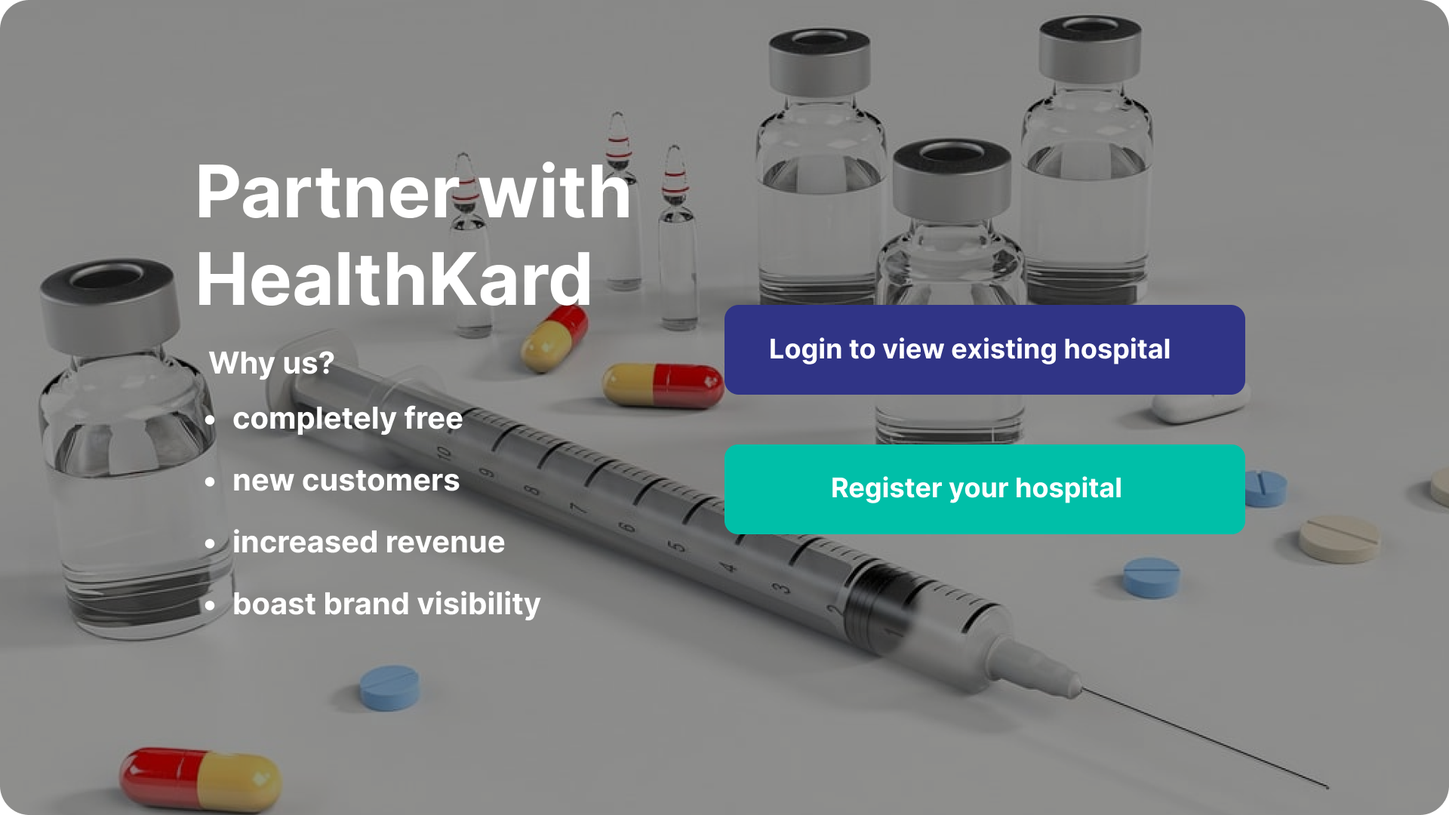
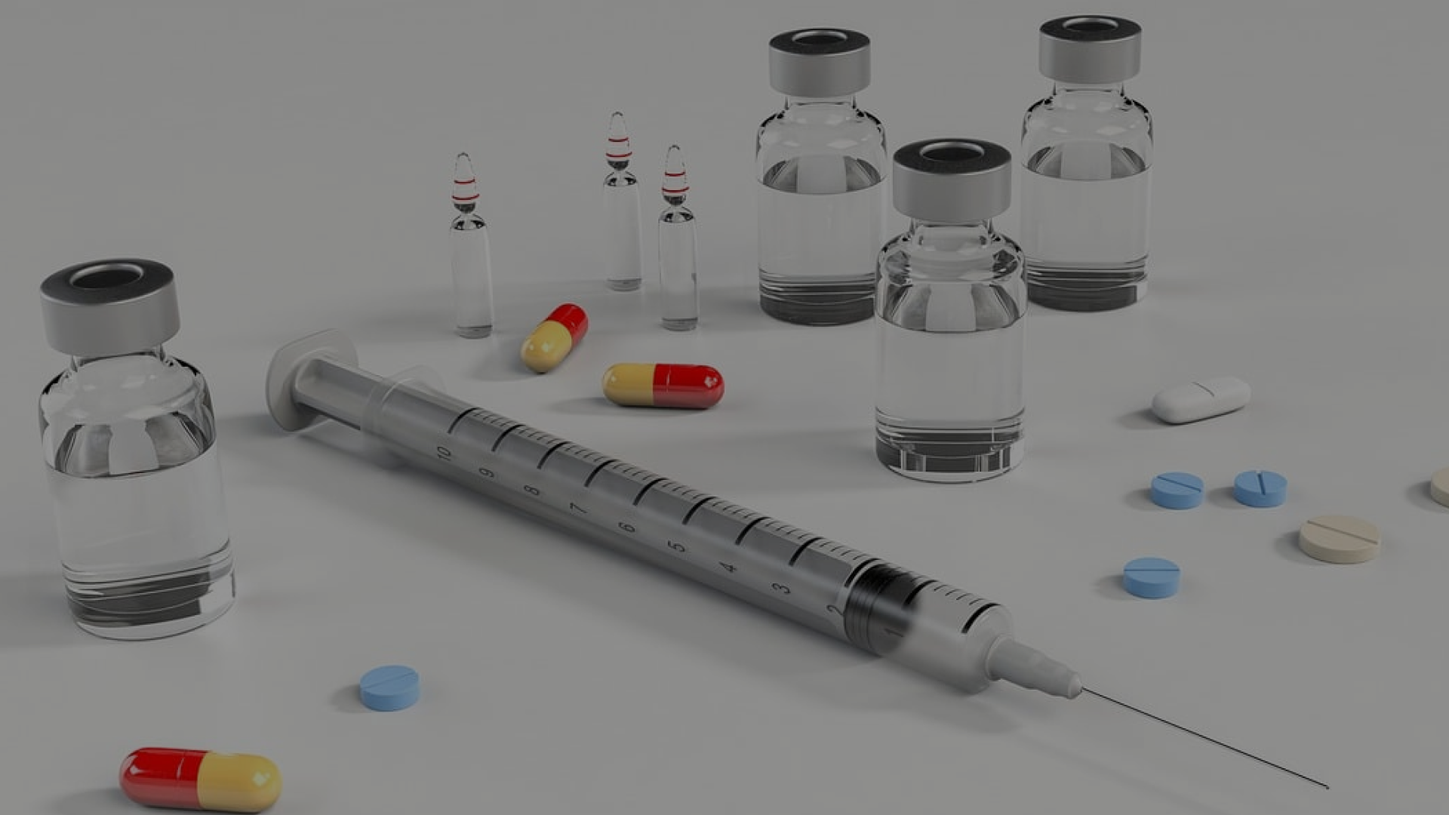
version 1.0

diff --git a/src/hospital/components/SignUp.js b/src/hospital/components/SignUp.js
@@ -1,7 +1,7 @@
 import React, { useState } from 'react'
 import { FcGoogle } from "react-icons/fc";
 import { RxCross2 } from "react-icons/rx";
-import { useNavigate } from 'react-router-dom';
+import { Link, useNavigate } from 'react-router-dom';
 
 
 function SignUp() {
@@ -16,19 +16,21 @@ function SignUp() {
         
     }
   return (
-    <div div className='relative h-[100vh] w-full flex justify-center items-center'>
-        <div className='shadow-md flex flex-col gap-6 w-2/3 lg:w-1/3 p-6 border rounded-md'>
+    <div div className='bg-[rgba(0,0,0,0.5)] relative h-[100vh] w-full flex justify-center items-center'>
+        <div className=' bg-white shadow-md flex flex-col gap-6 w-2/3 lg:w-1/3 p-6 border rounded-md'>
             <div className='text-xl font-bold flex justify-between'>
                 <div className=''>Sign Up</div>
-                <RxCross2 className='hover:bg-gray-200 hover:cursor-pointer rounded-full p-1 text-3xl' />
+                <Link to='../'>
+                    <RxCross2 className='hover:bg-gray-200 hover:cursor-pointer rounded-full p-1 text-3xl' />
+                </Link>
             </div>
             {!isOtpSent&&<div className='w-full flex flex-col gap-6'>
                 <div className="relative w-full min-w-[200px] h-10">
-                    <input className="border- peer w-full h-full bg-transparent text-green-gray-700 font-sans font-normal outline outline-0 focus:outline-0 disabled:bg-green-gray-50 disabled:border-0 transition-all placeholder-shown:border placeholder-shown:border-green-gray-200 placeholder-shown:border-t-green-gray-200  focus:border-2 border-t-transparent focus:border-t-transparent text-sm px-3 py-2.5 rounded-[7px]  focus:border-gray-900" placeholder=" " />
-                    <label className="flex w-full h-full select-none pointer-events-none absolute left-0 font-normal !overflow-visible truncate peer-placeholder-shown:text-green-gray-500 leading-tight peer-focus:leading-tight peer-disabled:text-transparent peer-disabled:peer-placeholder-shown:text-green-gray-500 transition-all -top-1.5 peer-placeholder-shown:text-sm text-[11px] peer-focus:text-[11px] before:content[' '] before:block before:box-border before:w-2.5 before:h-1.5 before:mt-[6.5px] before:mr-1 peer-placeholder-shown:before:border-transparent before:rounded-tl-md before:border-t peer-focus:before:border-t-2 before:border-l peer-focus:before:border-l-2 before:pointer-events-none before:transition-all peer-disabled:before:border-transparent after:content[' '] after:block after:flex-grow after:box-border after:w-2.5 after:h-1.5 after:mt-[6.5px] after:ml-1 peer-placeholder-shown:after:border-transparent after:rounded-tr-md after:border-t peer-focus:after:border-t-2 after:border-r peer-focus:after:border-r-2 after:pointer-events-none after:transition-all peer-disabled:after:border-transparent peer-placeholder-shown:leading-[3.75] text-gray-500 peer-focus:text-gray-900 before:border-green-gray-200 peer-focus:before:!border-gray-900 after:border-green-gray-200 peer-focus:after:!border-gray-900">Name of Hospital</label>
+                    <input autoFocus className="border- peer w-full h-full bg-transparent text-green-gray-700 font-sans font-normal outline outline-0 focus:outline-0 disabled:bg-green-gray-50 disabled:border-0 transition-all placeholder-shown:border placeholder-shown:border-green-gray-200 placeholder-shown:border-t-green-gray-200  focus:border-2 border-t-transparent focus:border-t-transparent text-sm px-3 py-2.5 rounded-[7px]  focus:border-gray-900" placeholder=" " />
+                    <label  className="flex w-full h-full select-none pointer-events-none absolute left-0 font-normal !overflow-visible truncate peer-placeholder-shown:text-green-gray-500 leading-tight peer-focus:leading-tight peer-disabled:text-transparent peer-disabled:peer-placeholder-shown:text-green-gray-500 transition-all -top-1.5 peer-placeholder-shown:text-sm text-[11px] peer-focus:text-[11px] before:content[' '] before:block before:box-border before:w-2.5 before:h-1.5 before:mt-[6.5px] before:mr-1 peer-placeholder-shown:before:border-transparent before:rounded-tl-md before:border-t peer-focus:before:border-t-2 before:border-l peer-focus:before:border-l-2 before:pointer-events-none before:transition-all peer-disabled:before:border-transparent after:content[' '] after:block after:flex-grow after:box-border after:w-2.5 after:h-1.5 after:mt-[6.5px] after:ml-1 peer-placeholder-shown:after:border-transparent after:rounded-tr-md after:border-t peer-focus:after:border-t-2 after:border-r peer-focus:after:border-r-2 after:pointer-events-none after:transition-all peer-disabled:after:border-transparent peer-placeholder-shown:leading-[3.75] text-gray-500 peer-focus:text-gray-900 before:border-green-gray-200 peer-focus:before:!border-gray-900 after:border-green-gray-200 peer-focus:after:!border-gray-900">Name of Hospital</label>
                 </div>
                 <div className="relative w-full min-w-[200px] h-10">
-                    <input className="border- peer w-full h-full bg-transparent text-green-gray-700 font-sans font-normal outline outline-0 focus:outline-0 disabled:bg-green-gray-50 disabled:border-0 transition-all placeholder-shown:border placeholder-shown:border-green-gray-200 placeholder-shown:border-t-green-gray-200  focus:border-2 border-t-transparent focus:border-t-transparent text-sm px-3 py-2.5 rounded-[7px]  focus:border-gray-900" placeholder=" " />
+                    <input  className="border- peer w-full h-full bg-transparent text-green-gray-700 font-sans font-normal outline outline-0 focus:outline-0 disabled:bg-green-gray-50 disabled:border-0 transition-all placeholder-shown:border placeholder-shown:border-green-gray-200 placeholder-shown:border-t-green-gray-200  focus:border-2 border-t-transparent focus:border-t-transparent text-sm px-3 py-2.5 rounded-[7px]  focus:border-gray-900" placeholder=" " />
                     <label className="flex w-full h-full select-none pointer-events-none absolute left-0 font-normal !overflow-visible truncate peer-placeholder-shown:text-green-gray-500 leading-tight peer-focus:leading-tight peer-disabled:text-transparent peer-disabled:peer-placeholder-shown:text-green-gray-500 transition-all -top-1.5 peer-placeholder-shown:text-sm text-[11px] peer-focus:text-[11px] before:content[' '] before:block before:box-border before:w-2.5 before:h-1.5 before:mt-[6.5px] before:mr-1 peer-placeholder-shown:before:border-transparent before:rounded-tl-md before:border-t peer-focus:before:border-t-2 before:border-l peer-focus:before:border-l-2 before:pointer-events-none before:transition-all peer-disabled:before:border-transparent after:content[' '] after:block after:flex-grow after:box-border after:w-2.5 after:h-1.5 after:mt-[6.5px] after:ml-1 peer-placeholder-shown:after:border-transparent after:rounded-tr-md after:border-t peer-focus:after:border-t-2 after:border-r peer-focus:after:border-r-2 after:pointer-events-none after:transition-all peer-disabled:after:border-transparent peer-placeholder-shown:leading-[3.75] text-gray-500 peer-focus:text-gray-900 before:border-green-gray-200 peer-focus:before:!border-gray-900 after:border-green-gray-200 peer-focus:after:!border-gray-900">Email</label>
                 </div>
                 <div class="flex items-center mb-4">
@@ -43,9 +45,8 @@ function SignUp() {
                     <input type='text' maxLength={1} className='focus:border-0 border-green-800 border rounded-md w-8 h-8 text-center'/>
                     <input type='text' maxLength={1} className='focus:border-0 border-green-800 border rounded-md w-8 h-8 text-center'/>
                     <input type='text' maxLength={1} className='focus:border-0 border-green-800 border rounded-md w-8 h-8 text-center'/>
-                    <input type='text' maxLength={1} className='focus:border-0 border-green-800 border rounded-md w-8 h-8 text-center'/>
-                    <input type='text' maxLength={1} className='focus:border-0 border-green-800 border rounded-md w-8 h-8 text-center'/>
                 </div>
+                <div className='text-sm px-2'>Enter OTP received to sh*****@gmail.com</div>
             </div>}
             <div onClick={sendOTP}  className='hover:cursor-pointer green text-white text-center rounded-md p-2'>{!isOtpSent?<div>Send OTP</div>:<div>Sign Up</div>}</div>
             <div className='flex w-full items-center justify-center gap-2'>

diff --git a/src/hospital/components/Login.js b/src/hospital/components/Login.js
@@ -1,6 +1,7 @@
 import React, { useState } from 'react'
 import { FcGoogle } from "react-icons/fc";
 import { RxCross2 } from "react-icons/rx";
+import { Link } from 'react-router-dom';
 
 
 function Login() {
@@ -9,14 +10,16 @@ function Login() {
         setIsOtpSent(true);
     }
   return (
-    <div div className='relative h-[100vh] w-full flex justify-center items-center'>
-        <div className='shadow-md flex flex-col gap-6 w-2/3 lg:w-1/3 p-6 border rounded-md'>
+    <div div className='bg-[rgba(0,0,0,0.5)] relative h-[100vh] w-full flex justify-center items-center'>
+        <div className='bg-white  shadow-md flex flex-col gap-6 w-2/3 lg:w-1/3 p-6 border rounded-md'>
             <div className='text-xl font-bold flex justify-between'>
                 <div className=''>Login</div>
-                <RxCross2 className='hover:bg-gray-200 hover:cursor-pointer rounded-full p-1 text-3xl' />
+                <Link to='../'>
+                    <RxCross2 className='hover:bg-gray-200 hover:cursor-pointer rounded-full p-1 text-3xl' />
+                </Link>
             </div>
             {!isOtpSent&&<div className="relative w-full min-w-[200px] h-10">
-                <input className="border- peer w-full h-full bg-transparent text-green-gray-700 font-sans font-normal outline outline-0 focus:outline-0 disabled:bg-green-gray-50 disabled:border-0 transition-all placeholder-shown:border placeholder-shown:border-green-gray-200 placeholder-shown:border-t-green-gray-200  focus:border-2 border-t-transparent focus:border-t-transparent text-sm px-3 py-2.5 rounded-[7px]  focus:border-gray-900" placeholder=" " />
+                <input autoFocus className="border- peer w-full h-full bg-transparent text-green-gray-700 font-sans font-normal outline outline-0 focus:outline-0 disabled:bg-green-gray-50 disabled:border-0 transition-all placeholder-shown:border placeholder-shown:border-green-gray-200 placeholder-shown:border-t-green-gray-200  focus:border-2 border-t-transparent focus:border-t-transparent text-sm px-3 py-2.5 rounded-[7px]  focus:border-gray-900" placeholder=" " />
                 <label className="flex w-full h-full select-none pointer-events-none absolute left-0 font-normal !overflow-visible truncate peer-placeholder-shown:text-green-gray-500 leading-tight peer-focus:leading-tight peer-disabled:text-transparent peer-disabled:peer-placeholder-shown:text-green-gray-500 transition-all -top-1.5 peer-placeholder-shown:text-sm text-[11px] peer-focus:text-[11px] before:content[' '] before:block before:box-border before:w-2.5 before:h-1.5 before:mt-[6.5px] before:mr-1 peer-placeholder-shown:before:border-transparent before:rounded-tl-md before:border-t peer-focus:before:border-t-2 before:border-l peer-focus:before:border-l-2 before:pointer-events-none before:transition-all peer-disabled:before:border-transparent after:content[' '] after:block after:flex-grow after:box-border after:w-2.5 after:h-1.5 after:mt-[6.5px] after:ml-1 peer-placeholder-shown:after:border-transparent after:rounded-tr-md after:border-t peer-focus:after:border-t-2 after:border-r peer-focus:after:border-r-2 after:pointer-events-none after:transition-all peer-disabled:after:border-transparent peer-placeholder-shown:leading-[3.75] text-gray-500 peer-focus:text-gray-900 before:border-green-gray-200 peer-focus:before:!border-gray-900 after:border-green-gray-200 peer-focus:after:!border-gray-900">Email</label>
             </div>}
             {isOtpSent && <div className='flex flex-col'>
@@ -26,9 +29,8 @@ function Login() {
                     <input type='text' maxLength={1} className='focus:border-0 border-green-800 border rounded-md w-8 h-8 text-center'/>
                     <input type='text' maxLength={1} className='focus:border-0 border-green-800 border rounded-md w-8 h-8 text-center'/>
                     <input type='text' maxLength={1} className='focus:border-0 border-green-800 border rounded-md w-8 h-8 text-center'/>
-                    <input type='text' maxLength={1} className='focus:border-0 border-green-800 border rounded-md w-8 h-8 text-center'/>
-                    <input type='text' maxLength={1} className='focus:border-0 border-green-800 border rounded-md w-8 h-8 text-center'/>
                 </div>
+                <div className='text-sm px-2'>Enter OTP received to sh*****@gmail.com</div>
             </div>}
             <div onClick={sendOTP}  className='hover:cursor-pointer green text-white text-center rounded-md p-2'>{!isOtpSent?<div>Send OTP</div>:<div>Sign Up</div>}</div>
             <div className='flex w-full items-center justify-center gap-2'>

diff --git a/src/hospital/HospitalCredentails.js b/src/hospital/HospitalCredentails.js
@@ -1,13 +1,35 @@
 import React from 'react'
-// import { Outlet } from 'react-router-dom'
+import { FaRegCircleDot } from "react-icons/fa6";
+
+import { Link, Outlet } from 'react-router-dom'
 import mobile from '../assets/mobile.png'
 import './style.css'
 function HospitalCredentails() {
   return (
-    <div className='flex flex-col '>
-      <div className='banner'></div>
-      <div className='flex flex-col gap-8 p-8'>
-        <div className='font-bold text-center text-2xl'>Steps to join our community</div>
+    <div className='flex flex-col relative'>
+      <div className='fixed top-0 left-0 w-full'>
+          <Outlet/>
+      </div>
+      <div className='banner lg:h-[100vh] flex lg:flex-row flex-col p-4 justify-center items-center'>
+        <div className='flex flex-col text-white w-1/2 lg:w-1/3 p-3   gap-6'>
+          <div className='text-2xl lg:text-4xl font-bold tracking-wider'>Partner with HealthKard</div>
+          <div className='flex flex-col gap-2'>
+            <div className='text-2xl font-semibold'>Why us?</div>
+            <div className='flex flex-col gap-4 lg:text-xl'>
+              <div className='flex items-center gap-6 '><FaRegCircleDot className=''/>completely free</div>
+              <div className='flex items-center gap-6 '><FaRegCircleDot className=''/>new customers</div>
+              <div className='flex items-center gap-6 '><FaRegCircleDot className=''/>increased revenue</div>
+              <div className='flex items-center gap-6 '><FaRegCircleDot className=''/>boast brand visibility</div>
+            </div>
+          </div>
+        </div>
+        <div className='flex flex-col w-1/2 lg:w-1/3  gap-8'>
+          <Link to='login' className='blue text-white font-bold  py-3 rounded-md text-center'>Login to view existing hospital</Link>
+          <Link to='signup' className='green text-white font-bold  py-3 rounded-md text-center'>Register your hospital</Link>
+        </div>
+      </div>
+      <div className='flex flex-col gap-10 p-8 lg:h-[100vh] justify-center'>
+        <div className='font-bold text-center text-2xl md:text-4xl'>Steps to join our community</div>
         <div className='flex justify-around'>
           <div className='shadow-md border rounded-xl py-8 px-2 w-1/5 flex flex-col gap-6 items-center justify-center'>
             <div className='blue text-white w-[30px] h-[30px] flex justify-center items-center rounded-full font-bold'>1</div>
@@ -26,9 +48,13 @@ function HospitalCredentails() {
           </div>
         </div>
       </div>
-      <div className='flex'>
-        <div className=''>
-          <img src={mobile}/>
+      <div className='flex items-center justify-center lg:h-[100vh]'>
+        <div className=' w-1/2'>
+          <img alt='mobile' src={mobile}/>
+        </div>
+        <div className='flex flex-col w-1/3 gap-8'>
+          <div className='text-blue text-xl lg:text-3xl font-bold text-center'>Manage your hospital from your fingertips</div>
+          <div className='text-green text-md lg:text-2xl text-center'>Get our partner app</div>
         </div>
       </div>
     </div>

diff --git a/src/hospital/components_register/DoctorDeatailsForm.js b/src/hospital/components_register/DoctorDeatailsForm.js
@@ -14,7 +14,7 @@ function DoctorDeatailsForm() {
           <div className='w-full p-2 flex flex-col gap-8'>
             <div className="w-full">
               <div className="relative w-full min-w-[200px] h-10">
-                <input onChange={(e)=>setDoctorDetails({...doctorDetails,name:e.target.value})} className="border- peer w-full h-full bg-transparent text-blue-gray-700 font-sans font-normal outline outline-0 focus:outline-0 disabled:bg-blue-gray-50 disabled:border-0 transition-all placeholder-shown:border placeholder-shown:border-blue-gray-200 placeholder-shown:border-t-blue-gray-200  focus:border-2 border-t-transparent focus:border-t-transparent text-sm px-3 py-2.5 rounded-[7px]  focus:border-gray-900" placeholder=" " />
+                <input autoFocus onChange={(e)=>setDoctorDetails({...doctorDetails,name:e.target.value})} className="border- peer w-full h-full bg-transparent text-blue-gray-700 font-sans font-normal outline outline-0 focus:outline-0 disabled:bg-blue-gray-50 disabled:border-0 transition-all placeholder-shown:border placeholder-shown:border-blue-gray-200 placeholder-shown:border-t-blue-gray-200  focus:border-2 border-t-transparent focus:border-t-transparent text-sm px-3 py-2.5 rounded-[7px]  focus:border-gray-900" placeholder=" " />
                   <label className="flex w-full h-full select-none pointer-events-none absolute left-0 font-normal !overflow-visible truncate peer-placeholder-shown:text-blue-gray-500 leading-tight peer-focus:leading-tight peer-disabled:text-transparent peer-disabled:peer-placeholder-shown:text-blue-gray-500 transition-all -top-1.5 peer-placeholder-shown:text-sm text-[11px] peer-focus:text-[11px] before:content[' '] before:block before:box-border before:w-2.5 before:h-1.5 before:mt-[6.5px] before:mr-1 peer-placeholder-shown:before:border-transparent before:rounded-tl-md before:border-t peer-focus:before:border-t-2 before:border-l peer-focus:before:border-l-2 before:pointer-events-none before:transition-all peer-disabled:before:border-transparent after:content[' '] after:block after:flex-grow after:box-border after:w-2.5 after:h-1.5 after:mt-[6.5px] after:ml-1 peer-placeholder-shown:after:border-transparent after:rounded-tr-md after:border-t peer-focus:after:border-t-2 after:border-r peer-focus:after:border-r-2 after:pointer-events-none after:transition-all peer-disabled:after:border-transparent peer-placeholder-shown:leading-[3.75] text-gray-500 peer-focus:text-gray-900 before:border-blue-gray-200 peer-focus:before:!border-gray-900 after:border-blue-gray-200 peer-focus:after:!border-gray-900">Doctor Full Name
                   </label>
               </div>

diff --git a/src/hospital/components_register/Form1.js b/src/hospital/components_register/Form1.js
@@ -7,7 +7,7 @@ function Form1() {
       <div className='w-full p-2 flex flex-col gap-8'>
         <div className="w-full">
           <div className="relative w-full min-w-[200px] h-10">
-            <input className="border- peer w-full h-full bg-transparent text-blue-gray-700 font-sans font-normal outline outline-0 focus:outline-0 disabled:bg-blue-gray-50 disabled:border-0 transition-all placeholder-shown:border placeholder-shown:border-blue-gray-200 placeholder-shown:border-t-blue-gray-200  focus:border-2 border-t-transparent focus:border-t-transparent text-sm px-3 py-2.5 rounded-[7px]  focus:border-gray-900" placeholder=" " />
+            <input autoFocus className="border- peer w-full h-full bg-transparent text-blue-gray-700 font-sans font-normal outline outline-0 focus:outline-0 disabled:bg-blue-gray-50 disabled:border-0 transition-all placeholder-shown:border placeholder-shown:border-blue-gray-200 placeholder-shown:border-t-blue-gray-200  focus:border-2 border-t-transparent focus:border-t-transparent text-sm px-3 py-2.5 rounded-[7px]  focus:border-gray-900" placeholder=" " />
               <label className="flex w-full h-full select-none pointer-events-none absolute left-0 font-normal !overflow-visible truncate peer-placeholder-shown:text-blue-gray-500 leading-tight peer-focus:leading-tight peer-disabled:text-transparent peer-disabled:peer-placeholder-shown:text-blue-gray-500 transition-all -top-1.5 peer-placeholder-shown:text-sm text-[11px] peer-focus:text-[11px] before:content[' '] before:block before:box-border before:w-2.5 before:h-1.5 before:mt-[6.5px] before:mr-1 peer-placeholder-shown:before:border-transparent before:rounded-tl-md before:border-t peer-focus:before:border-t-2 before:border-l peer-focus:before:border-l-2 before:pointer-events-none before:transition-all peer-disabled:before:border-transparent after:content[' '] after:block after:flex-grow after:box-border after:w-2.5 after:h-1.5 after:mt-[6.5px] after:ml-1 peer-placeholder-shown:after:border-transparent after:rounded-tr-md after:border-t peer-focus:after:border-t-2 after:border-r peer-focus:after:border-r-2 after:pointer-events-none after:transition-all peer-disabled:after:border-transparent peer-placeholder-shown:leading-[3.75] text-gray-500 peer-focus:text-gray-900 before:border-blue-gray-200 peer-focus:before:!border-gray-900 after:border-blue-gray-200 peer-focus:after:!border-gray-900">Hospital Legal Name
               </label>
           </div>

diff --git a/src/hospital/components/SideBar.js b/src/hospital/components/SideBar.js
@@ -6,20 +6,20 @@ import { NavLink } from 'react-router-dom';
 import './style.css'
 function SideBar() {
   return (
-    <div className='fixed md:relative bottom-0 left-0 w-full md:w-fit flex md:flex-col  md:h-full green md:p-2 p-1 text-3xl text-white gap-6 justify-around md:justify-between items-center'>
-        <div className='flex md:flex-col w-2/3 md:w-full md:h-1/2 justify-around md:justify-end md:gap-4'>
-          <NavLink to='profile' className=' p-2  rounded-md flex flex-col items-center w-1/2 md:w-full md:gap-1 hover:cursor-pointer'>
+    <div className='fixed lg:relative bottom-0 left-0 w-full lg:w-fit flex lg:flex-col  lg:h-full green lg:p-2 p-1 text-3xl text-white gap-6 justify-around lg:justify-between items-center'>
+        <div className='flex lg:flex-col w-2/3 lg:w-full lg:h-1/2 justify-around lg:justify-end lg:gap-4'>
+          <NavLink to='profile' className=' p-2  rounded-md flex flex-col items-center w-1/2 lg:w-full lg:gap-1 hover:cursor-pointer'>
               <CgProfile/>
-              <div className='text-xs md:text-sm font-thin'>Profile</div>
+              <div className='text-xs lg:text-sm font-thin'>Profile</div>
           </NavLink>
-          <NavLink to='dashboard' className=' p-2  rounded-md flex flex-col items-center w-1/2 md:w-full md:gap-1 hover:cursor-pointer'>
+          <NavLink to='dashboard' className=' p-2  rounded-md flex flex-col items-center w-1/2 lg:w-full lg:gap-1 hover:cursor-pointer'>
               <FaHome/>
-              <div className='text-xs md:text-sm font-thin'>Home</div>
+              <div className='text-xs lg:text-sm font-thin'>Home</div>
           </NavLink>
         </div>
-        <div className='flex flex-col items-center justify-center md:gap-1 hover:cursor-pointer  md:h-1/3'>
+        <div className='flex flex-col items-center justify-center lg:gap-1 hover:cursor-pointer  lg:h-1/3'>
             <CiLogout/>
-            <div className='text-xs md:text-sm font-thin'>Logout</div>
+            <div className='text-xs lg:text-sm font-thin'>Logout</div>
         </div>
     </div>
   )

diff --git a/src/hospital/components/Table.js b/src/hospital/components/Table.js
@@ -5,17 +5,17 @@ import profile from '../../assets/profile.png'
 function Table(props) {
   
   return (
-    <div className='md:w-3/5 w-full h-[70vh] md:h-[80vh] overflow-y-scroll noscroll md:p-2 '>
-      <div className='w-full md:text-[14px] text-md'>
+    <div className='lg:w-3/5 w-full h-[80vh] overflow-y-scroll noscroll lg:p-2 '>
+      <div className='w-full lg:text-[14px] text-md'>
         
         {props.data && props.data.map((row,index)=>{
           return(
             <div key={index} className={index%2===0?'tr h-[6vh] hover:bg-[#00BFA8] items-center hover:font-bold hover:text-white hover:scale-[102%] hover:shadow-xl  cursor-pointer flex rounded ':'h-[6vh] hover:bg-[#00BFA8] items-center hover:font-bold hover:text-white hover:scale-[102%] hover:shadow-xl  cursor-pointer flex rounded '}>
-              <div className='flex items-center justify-center h-[4vh] w-1/3  md:w-1/6'><img className='aspect-square h-full ' src={profile} alt=""/></div>
-              <div className='w-1/3 md:w-1/6 text-center items-center flex'>{row.id}</div>
-              <div className='w-1/3 md:w-1/6 text-center items-center flex'>{row.name}</div>
-              <div className='w-1/6 text-center items-center hidden md:flex justify-center'>{row.gender}</div>
-              <div className='w-1/6 text-center items-center hidden md:flex justify-center'>{row.age}</div>
+              <div className='flex items-center justify-center h-[4vh] w-1/3  lg:w-1/6'><img className='aspect-square h-full ' src={profile} alt=""/></div>
+              <div className='w-1/3 lg:w-1/6 text-center items-center flex'>{row.id}</div>
+              <div className='w-1/3 lg:w-1/6 text-center items-center flex'>{row.name}</div>
+              <div className='w-1/6 text-center items-center hidden lg:flex justify-center'>{row.gender}</div>
+              <div className='w-1/6 text-center items-center hidden lg:flex justify-center'>{row.age}</div>
               <div className='w-1/6 text-center items-center hidden md:flex'>{row.phNumber}</div>
             </div>
           )

diff --git a/src/hospital/components_dashboard/Dashboard.js b/src/hospital/components_dashboard/Dashboard.js
@@ -34,7 +34,7 @@ function Dashboard() {
   }
   return (
     <>
-        <div className='md:w-1/4 '>   
+        <div className='lg:w-1/4 '>   
             <label htmlFor="default-search" className="mb-2 text-sm font-medium text-gray-900 sr-only dark:text-white">Search</label>
                 <div className="relative">
                     <div className="absolute inset-y-0 start-0 flex items-center ps-3 pointer-events-none">
@@ -47,7 +47,7 @@ function Dashboard() {
         </div>
         <div className='flex w-full  h-full justify-between gap-2'>
             <Table data = {records} columns = {columns}/>
-            <div className='hidden md:flex flex-col w-2/5 gap-5  '>
+            <div className='hidden lg:flex flex-col w-2/5 gap-5  '>
                 <UserInfo/>
                 <Graph/>
             </div>

diff --git a/src/hospital/components/Navbar.js b/src/hospital/components/Navbar.js
@@ -3,11 +3,11 @@ import { CgProfile } from "react-icons/cg";
 function Navbar() {
   return (
     <div className='flex justify-between '>
-        <div className='flex items-center gap-2 font-bold text-sm md:text-2xl'>
+        <div className='flex items-center gap-2 font-bold text-sm lg:text-2xl'>
             <div className=''>Welcome, </div>
-            <div className='text-green text-sm md:text-4xl uppercase'>Hospital !</div>
+            <div className='text-green text-sm lg:text-4xl uppercase'>Hospital !</div>
         </div>
-        <div className='flex items-center gap-1 text-xs md:text-lg'>
+        <div className='flex items-center gap-1 text-xs lg:text-lg'>
             <div className=''>Health_ID</div>
             <CgProfile/>
         </div>

diff --git a/src/App.js b/src/App.js
@@ -17,7 +17,8 @@ function App() {
       <Routes>
         <Route path="/" element={<Home />}></Route>
         <Route path='/hospital' element={<HospitalDashboard/>}>
-          <Route path='dashboard' element={<Dashboard/>}></Route>
+          <Route index path='dashboard' element={<Dashboard/>}></Route>
+          <Route index path='' element={<Dashboard/>}></Route>
           <Route path='profile' element={<Profile/>}></Route>
         </Route>
         <Route path='/auth' element={<HospitalCredentails/>}>

diff --git a/src/hospital/HospitalDashboard.js b/src/hospital/HospitalDashboard.js
@@ -9,7 +9,7 @@ function HospitalDashboard() {
    
     
   return (
-    <div className='bg-white flex flex-col-reverse md:flex-row h-[100vh] w-[100vw] overflow-hidden'>
+    <div className='bg-white flex flex-col-reverse lg:flex-row h-[100vh] w-[100vw] overflow-hidden'>
         <SideBar/>
         <div className='flex flex-col w-full p-5 gap-5 h-full'>
             <Navbar/>

diff --git a/src/hospital/style.css b/src/hospital/style.css
@@ -1,7 +1,5 @@
 .banner{
     background-image: url('../assets/banner.png');
-    height: 100vh;
-    width: 100%;
     background-repeat: no-repeat;
     background-position: center;
     background-size: cover;
